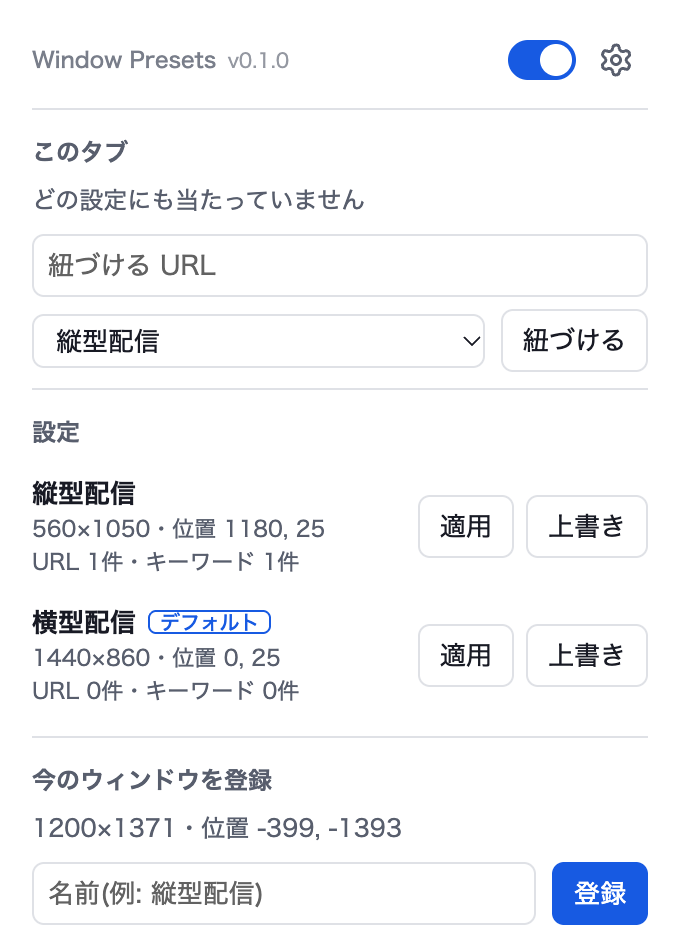
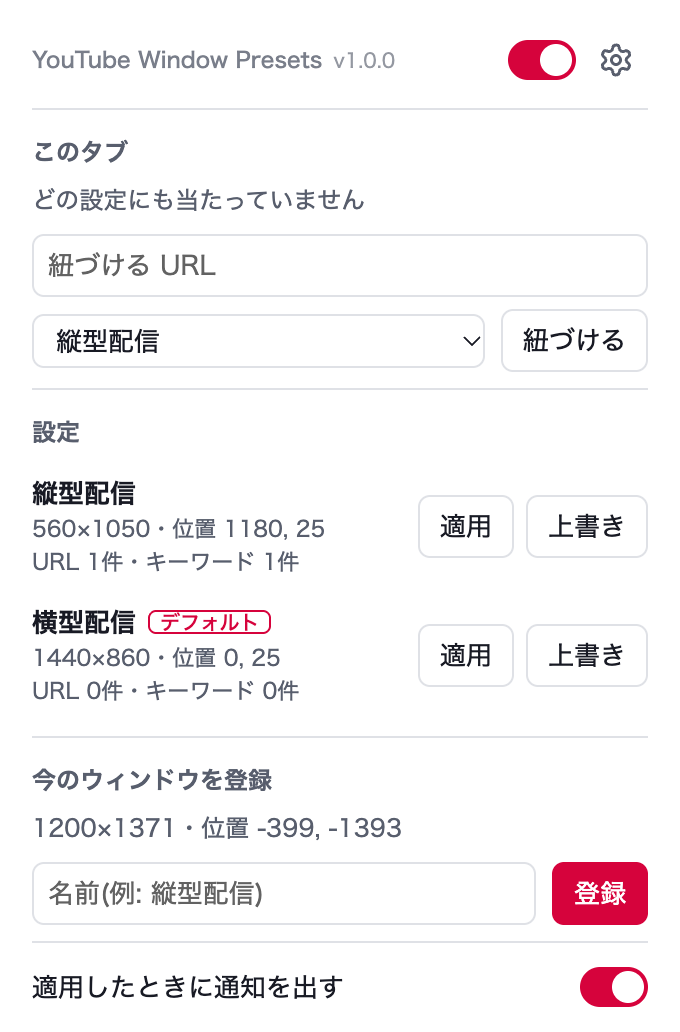
1.1.0: 名前を YouTube Window Presets に変更、適用時の通知を追加
- 設定を適用したら YouTube のプレイヤー右上に4秒ほど通知を出す(ポップアップでオン・オフ)
- 名前を「YouTube Window Presets」に変え、アイコンと画面の色を赤系にした
- エクスポートのファイル名と形式名を yt-window-presets にした

diff --git a/yt-bridge.js b/yt-bridge.js
@@ -1,5 +1,62 @@
-document.addEventListener("window-presets:report", (e) => {
+document.addEventListener("yt-window-presets:report", (e) => {
   try {
     chrome.runtime.sendMessage({ type: "yt-report", report: JSON.parse(e.detail) });
   } catch {}
 });
+
+(() => {
+  const TOAST_ID = "wp-applied-toast";
+  let hideTimer = null;
+  let removeTimer = null;
+
+  function toastStyle() {
+    if (document.getElementById(`${TOAST_ID}-style`)) return;
+    const style = document.createElement("style");
+    style.id = `${TOAST_ID}-style`;
+    style.textContent = `
+#${TOAST_ID}{position:absolute;right:12px;top:52px;z-index:1000;max-width:min(300px,50%);
+  padding:7px 10px;border-radius:6px;background:rgba(15,15,15,.6);color:#fff;
+  font:12px/1.4 Roboto,Arial,sans-serif;-webkit-font-smoothing:antialiased;
+  text-shadow:0 1px 1px rgba(0,0,0,.85),0 0 1px rgba(0,0,0,.85);box-shadow:0 2px 8px rgba(0,0,0,.2);
+  pointer-events:none;opacity:1;transition:opacity .3s}
+#${TOAST_ID}.wp-fixed{position:fixed;right:24px;top:72px}
+#${TOAST_ID}.wp-hide{opacity:0}
+#${TOAST_ID} .wp-toast-app{color:#ccc;font-size:10px;font-weight:500}
+#${TOAST_ID} .wp-toast-msg{font-weight:500;margin-top:1px;overflow:hidden;text-overflow:ellipsis;white-space:nowrap}
+#${TOAST_ID} .wp-toast-name{color:#ff8fab}`;
+    (document.head || document.documentElement).appendChild(style);
+  }
+
+  function showToast(name) {
+    toastStyle();
+    clearTimeout(hideTimer);
+    clearTimeout(removeTimer);
+    document.getElementById(TOAST_ID)?.remove();
+    const toast = document.createElement("div");
+    toast.id = TOAST_ID;
+    const label = document.createElement("span");
+    label.className = "wp-toast-name";
+    label.textContent = name || "(名前なし)";
+    const app = document.createElement("div");
+    app.className = "wp-toast-app";
+    app.textContent = "YouTube Window Presets";
+    const msg = document.createElement("div");
+    msg.className = "wp-toast-msg";
+    msg.append("設定「", label, "」を適用しました");
+    toast.append(app, msg);
+    const player = document.getElementById("movie_player");
+    if (player) player.appendChild(toast);
+    else {
+      toast.classList.add("wp-fixed");
+      document.body.appendChild(toast);
+    }
+    hideTimer = setTimeout(() => {
+      toast.classList.add("wp-hide");
+      removeTimer = setTimeout(() => toast.remove(), 300);
+    }, 4000);
+  }
+
+  chrome.runtime.onMessage.addListener((msg) => {
+    if (msg?.type === "applied-toast") showToast(msg.name);
+  });
+})();

diff --git a/background.js b/background.js
@@ -36,9 +36,16 @@ async function applyBounds(windowId, preset) {
   });
 }
 
+async function notifyApplied(tabId, preset) {
+  if (tabId == null) return;
+  const { notify } = await chrome.storage.sync.get(DEFAULTS);
+  if (!notify) return;
+  chrome.tabs.sendMessage(tabId, { type: "applied-toast", name: preset.name }).catch(() => {});
+}
+
 let queue = Promise.resolve();
 function enqueue(fn) {
-  queue = queue.then(fn).catch((e) => console.warn("[window-presets]", e));
+  queue = queue.then(fn).catch((e) => console.warn("[yt-window-presets]", e));
   return queue;
 }
 
@@ -76,8 +83,9 @@ async function evaluate(tab) {
   await setApplied(tab.windowId, preset.id);
   try {
     await applyBounds(tab.windowId, preset);
+    notifyApplied(tab.id, preset);
   } catch (e) {
-    console.warn("[window-presets] apply failed", e);
+    console.warn("[yt-window-presets] apply failed", e);
     await setApplied(tab.windowId, null);
   }
 }
@@ -119,6 +127,8 @@ chrome.runtime.onMessage.addListener((msg, sender, sendResponse) => {
     try {
       await setApplied(msg.windowId, preset.id);
       await applyBounds(msg.windowId, preset);
+      const [tab] = await chrome.tabs.query({ active: true, windowId: msg.windowId });
+      notifyApplied(tab?.id, preset);
       sendResponse({ ok: true });
     } catch (e) {
       sendResponse({ ok: false, error: String(e) });

diff --git a/rules.js b/rules.js
@@ -1,5 +1,6 @@
 export const DEFAULTS = {
   enabled: true,
+  notify: true,
   presets: [],
 };
 
@@ -169,13 +170,14 @@ function pickResult(candidates) {
   return c ? { ...NONE, preset: c.preset, by: c.by } : NONE;
 }
 
-const FORMAT = "window-presets";
+const FORMAT = "yt-window-presets";
 
-export function exportData({ enabled, presets }) {
+export function exportData({ enabled, notify, presets }) {
   return {
     format: FORMAT,
     version: 1,
     enabled: enabled !== false,
+    notify: notify !== false,
     presets: (presets || []).map((p) => ({
       id: p.id,
       name: p.name,
@@ -192,7 +194,7 @@ export function exportData({ enabled, presets }) {
 
 export function importData(data) {
   if (data?.format !== FORMAT || !Array.isArray(data.presets)) {
-    throw new Error("Window Presets で書き出したファイルではありません");
+    throw new Error("YouTube Window Presets で書き出したファイルではありません");
   }
   const int = (v) => (Number.isFinite(Number(v)) ? Math.round(Number(v)) : null);
   const ids = new Set();
@@ -220,5 +222,5 @@ export function importData(data) {
       ...(isDefault ? { isDefault: true } : {}),
     });
   }
-  return { enabled: data.enabled !== false, presets };
+  return { enabled: data.enabled !== false, notify: data.notify !== false, presets };
 }

diff --git a/popup.html b/popup.html
@@ -6,7 +6,7 @@
   </head>
   <body>
     <div class="bar">
-      <span class="title">Window Presets <span class="version" id="version"></span></span>
+      <span class="title">YouTube Window Presets <span class="version" id="version"></span></span>
       <div class="bar-actions">
         <label class="switch" title="自動で合わせる">
           <input type="checkbox" id="enabled" />
@@ -42,6 +42,16 @@
       <div class="row">
         <input type="text" id="name" placeholder="名前(例: 縦型配信)" />
         <button id="add" class="primary">登録</button>
+      </div>
+    </section>
+
+    <section>
+      <div class="row">
+        <span>適用したときに通知を出す</span>
+        <label class="switch" title="YouTube の配信画面に「設定を適用しました」と出す">
+          <input type="checkbox" id="notify" />
+          <span class="slider"></span>
+        </label>
       </div>
     </section>
 

diff --git a/popup.js b/popup.js
@@ -23,6 +23,7 @@ async function save(patch) {
 
 function render() {
   $("enabled").checked = settings.enabled;
+  $("notify").checked = settings.notify;
 
   const r = tab ? resolve(settings.presets, tab.url, report) : { preset: null };
   $("match").textContent = r.preset
@@ -97,6 +98,7 @@ async function init() {
   $("pattern").value = tab ? suggestPattern(tab.url) : "";
 
   $("enabled").addEventListener("change", (e) => save({ enabled: e.target.checked }));
+  $("notify").addEventListener("change", (e) => save({ notify: e.target.checked }));
 
   $("add").addEventListener("click", async () => {
     win = await chrome.windows.getCurrent();

diff --git a/options.html b/options.html
@@ -2,13 +2,13 @@
 <html lang="ja">
   <head>
     <meta charset="utf-8" />
-    <title>Window Presets の設定</title>
+    <title>YouTube Window Presets の設定</title>
     <link rel="stylesheet" href="options.css" />
   </head>
   <body>
     <main>
       <header class="page-head">
-        <h1>Window Presets</h1>
+        <h1>YouTube Window Presets</h1>
         <div class="io">
           <button type="button" id="export" class="button">エクスポート</button>
           <button type="button" id="import" class="button">インポート</button>

diff --git a/popup.css b/popup.css
@@ -3,7 +3,7 @@
   --fg: #1f2330;
   --muted: #6b7280;
   --border: #e5e7eb;
-  --accent: #1a73e8;
+  --accent: #e0234c;
   --accent-off: #c6c6c6;
   --danger: #d93025;
   --field: #ffffff;
@@ -15,7 +15,7 @@
     --fg: #e8eaf0;
     --muted: #9aa0ad;
     --border: #333846;
-    --accent: #5b9cf8;
+    --accent: #ff3d6b;
     --accent-off: #4d4d4d;
     --danger: #f28b82;
     --field: #232733;

diff --git a/export-file.js b/export-file.js
@@ -2,7 +2,7 @@ const DB_NAME = "export-file";
 const STORE = "handles";
 const DIR_KEY = "exportDir";
 const NAME_KEY = "fileName";
-const BASE_NAME = "window-presets";
+const BASE_NAME = "yt-window-presets";
 
 export const canPickFolder = typeof window.showDirectoryPicker === "function";
 

diff --git a/yt-main.js b/yt-main.js
@@ -1,5 +1,5 @@
 (() => {
-  const EVENT = "window-presets:report";
+  const EVENT = "yt-window-presets:report";
   let lastKey = "";
   let prevId = null;
   let navAt = 0;

diff --git a/README.md b/README.md
@@ -1,4 +1,4 @@
-# Window Presets
+# YouTube Window Presets
 
 登録した URL を開いたら、Chrome のウィンドウの位置とサイズを登録しておいた値に自動で合わせる拡張機能です。
 YouTube の縦型配信を開いたら縦長、それ以外の配信なら横長のウィンドウにする、といった使い方を想定しています。
@@ -60,7 +60,7 @@ YouTube では、配信かどうかとタイトルが分かってから当てる
 設定画面の右上から、すべての設定を JSON ファイルに書き出したり、読み込んだりできます。
 
 - **エクスポート**: 選んだフォルダの中の決まったファイルに上書きします。フォルダは初回に選び、以後は覚えています。
-  ファイル名は欄で変えられます(初期値はブラウザの種類付きの `window-presets-chrome.json` など)。
+  ファイル名は欄で変えられます(初期値はブラウザの種類付きの `yt-window-presets-chrome.json` など)。
   フォルダを選べないブラウザ(Brave など)では、同じ名前でダウンロードします
 - **インポート**: ファイルの内容で**今の設定をすべて置き換えます**(並び順が優先度なので、足し合わせると並びが崩れるため)
 

diff --git a/CHANGELOG.md b/CHANGELOG.md
@@ -6,6 +6,17 @@
 
 ## [Unreleased]
 
+## [1.1.0] - 2026-11-27
+
+### Added
+
+- YouTube で設定を適用したら、プレイヤーの右上に「設定「〇〇」を適用しました」と4秒ほど通知を出すようにした(ポップアップのトグルでオフにできる)
+
+### Changed
+
+- 名前を「YouTube Window Presets」に変え、アイコンと画面の色を赤系にした
+- エクスポートするファイル名の初期値を `yt-window-presets-<ブラウザ>.json` に、ファイルの形式名を `yt-window-presets` にした(改名前に書き出したファイルは読み込めない)
+
 ## [1.0.0] - 2026-11-27
 
 ### Added
